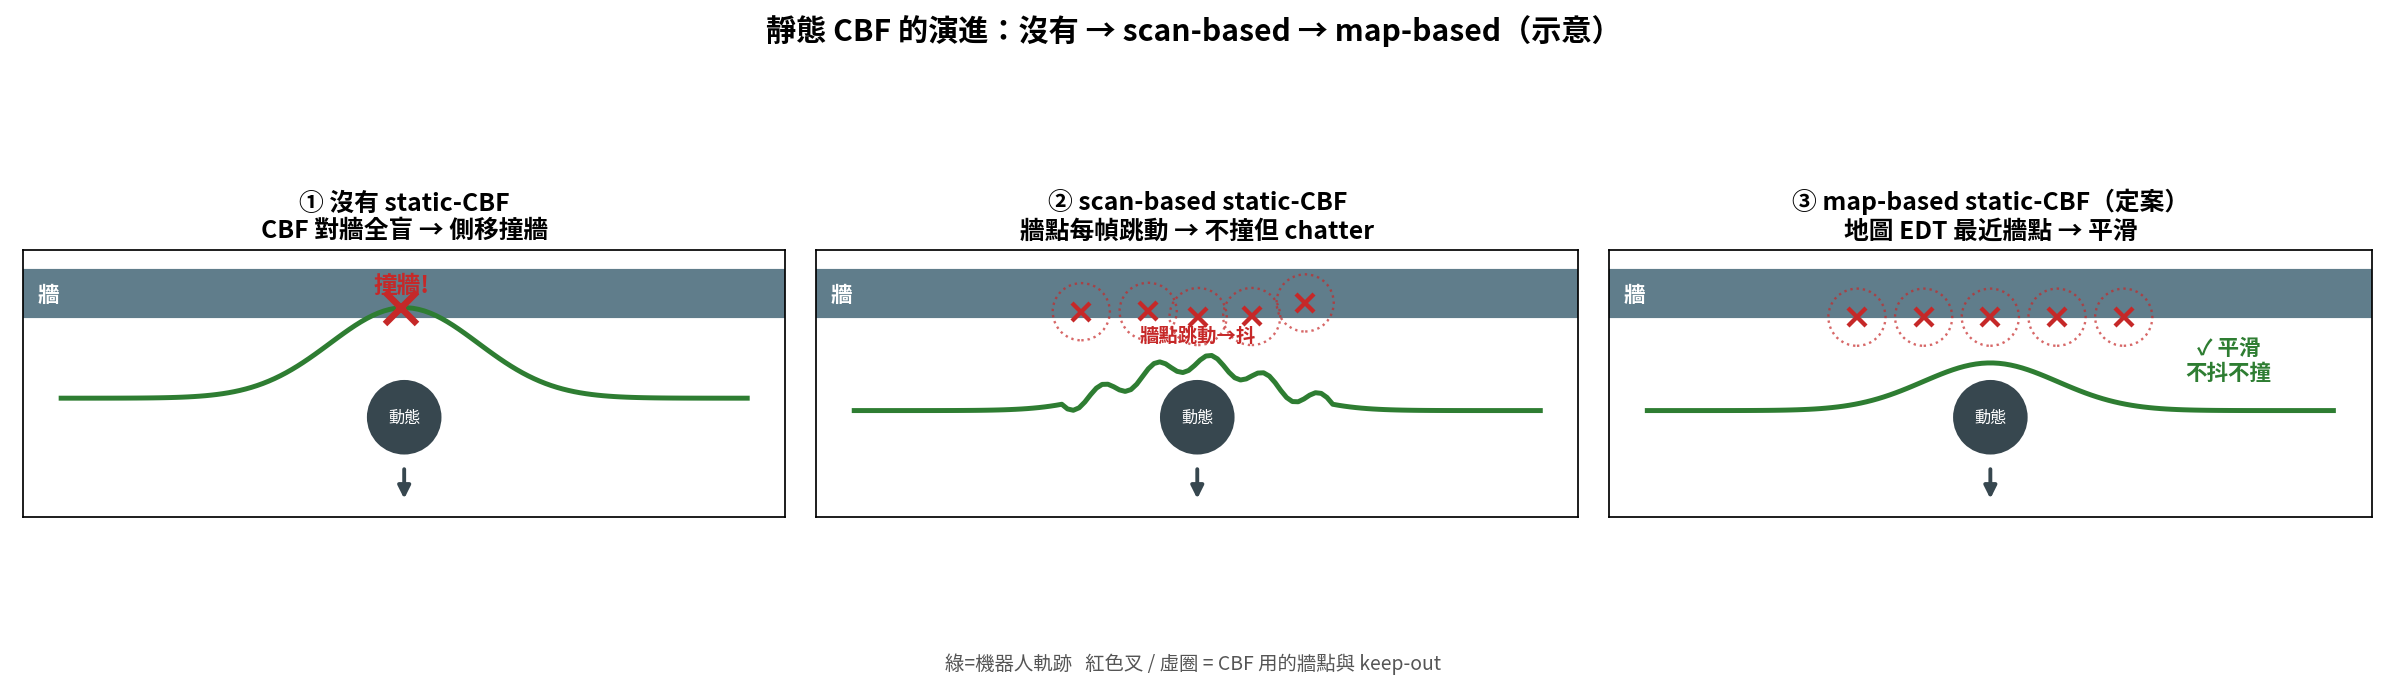
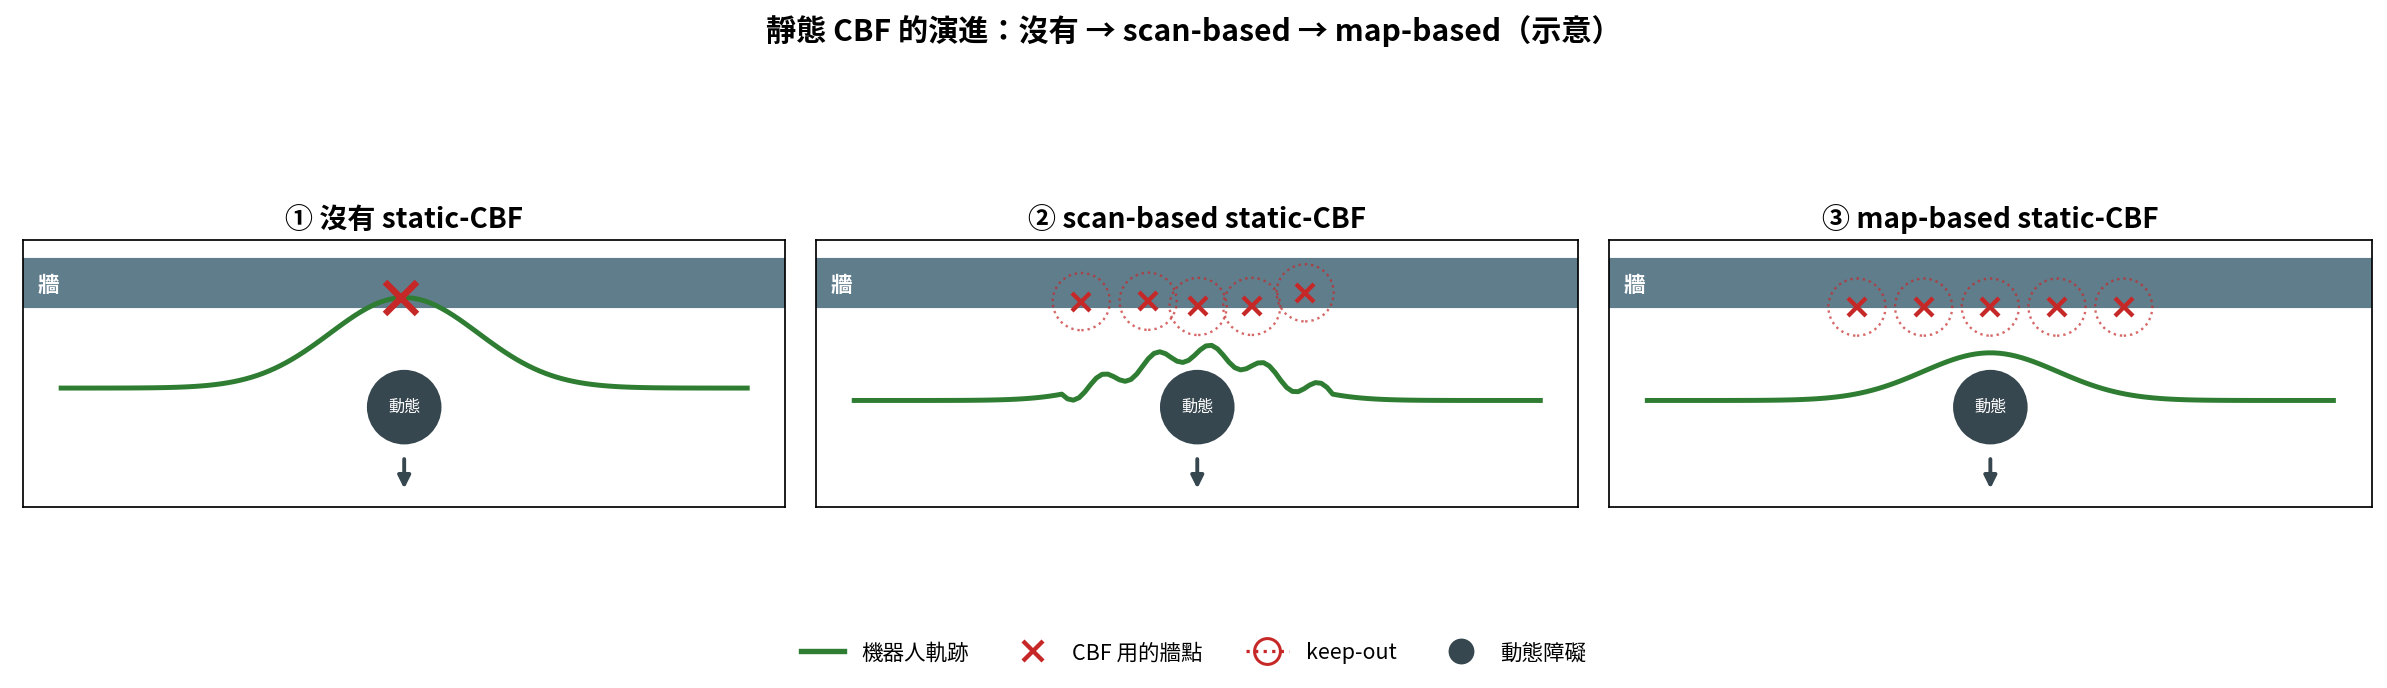
Auto-update: 2026-07-01 17:06

diff --git a/evaluation/plot_static_cbf_evolution.py b/evaluation/plot_static_cbf_evolution.py
@@ -26,8 +26,7 @@ scene(ax[0])
 py=1.15+0.95*np.exp(-((px-4)/1.1)**2)
 ax[0].plot(px,py,'-',color='#2e7d32',lw=2.3)
 ax[0].plot(px[np.argmax(py)],py.max(),'x',color='#c62828',ms=15,mew=3)
-ax[0].text(px[np.argmax(py)],py.max()+0.16,'撞牆!',color='#c62828',ha='center',fontsize=11,fontweight='bold')
-ax[0].set_title('① 沒有 static-CBF\nCBF 對牆全盲 → 側移撞牆',fontsize=11.5,fontweight='bold')
+ax[0].set_title('① 沒有 static-CBF',fontsize=13,fontweight='bold')
 
 # 2) scan-based -> 不撞但抖 (flicker/chatter)
 scene(ax[1])
@@ -37,8 +36,7 @@ for X,Y in zip(wx,wy): ax[1].add_patch(Circle((X,Y),0.30,fill=False,ec='#c62828'
 base=1.02+0.5*np.exp(-((px-4)/1.0)**2)
 chat=base+ (np.abs(px-4)<1.4)*0.09*np.sin(px*11)   # jitter near wall
 ax[1].plot(px,chat,'-',color='#2e7d32',lw=2.3)
-ax[1].text(4,1.75,'牆點跳動→抖',color='#c62828',ha='center',fontsize=9,fontweight='bold')
-ax[1].set_title('② scan-based static-CBF\n牆點每幀跳動 → 不撞但 chatter',fontsize=11.5,fontweight='bold')
+ax[1].set_title('② scan-based static-CBF',fontsize=13,fontweight='bold')
 
 # 3) map-based -> 平滑
 scene(ax[2])
@@ -47,11 +45,18 @@ ax[2].plot(wx3,wy3,'x',color='#c62828',ms=8,mew=2,ls='')
 for X,Y in zip(wx3,wy3): ax[2].add_patch(Circle((X,Y),0.30,fill=False,ec='#c62828',ls=':',lw=1.1,alpha=.7))
 py3=1.02+0.5*np.exp(-((px-4)/1.0)**2)
 ax[2].plot(px,py3,'-',color='#2e7d32',lw=2.3)
-ax[2].text(6.5,1.35,'✓ 平滑\n不抖不撞',color='#2e7d32',ha='center',fontsize=10,fontweight='bold')
-ax[2].set_title('③ map-based static-CBF（定案）\n地圖 EDT 最近牆點 → 平滑',fontsize=11.5,fontweight='bold')
+ax[2].set_title('③ map-based static-CBF',fontsize=13,fontweight='bold')
 
 fig.suptitle('靜態 CBF 的演進：沒有 → scan-based → map-based（示意）',fontsize=14,fontweight='bold')
-fig.text(0.5,0.02,'綠=機器人軌跡   紅色叉 / 虛圈 = CBF 用的牆點與 keep-out',ha='center',fontsize=9,color='#555')
-plt.tight_layout(rect=[0,0.03,1,0.93])
+
+# 顏色圖例(標在圖下方)
+from matplotlib.lines import Line2D
+handles=[Line2D([0],[0],color='#2e7d32',lw=2.5,label='機器人軌跡'),
+         Line2D([0],[0],marker='x',color='#c62828',ls='',ms=9,mew=2,label='CBF 用的牆點'),
+         Line2D([0],[0],marker='o',color='#c62828',mfc='none',ls=':',ms=12,mew=1.4,label='keep-out'),
+         Line2D([0],[0],marker='o',color='#37474f',ls='',ms=11,label='動態障礙')]
+fig.legend(handles=handles,loc='lower center',ncol=4,fontsize=10,frameon=False,
+           bbox_to_anchor=(0.5,0.0))
+plt.tight_layout(rect=[0,0.06,1,0.93])
 out='evaluation/results/figs/static_cbf_evolution.png'
 plt.savefig(out,dpi=155,bbox_inches='tight'); print('saved ->',out)
